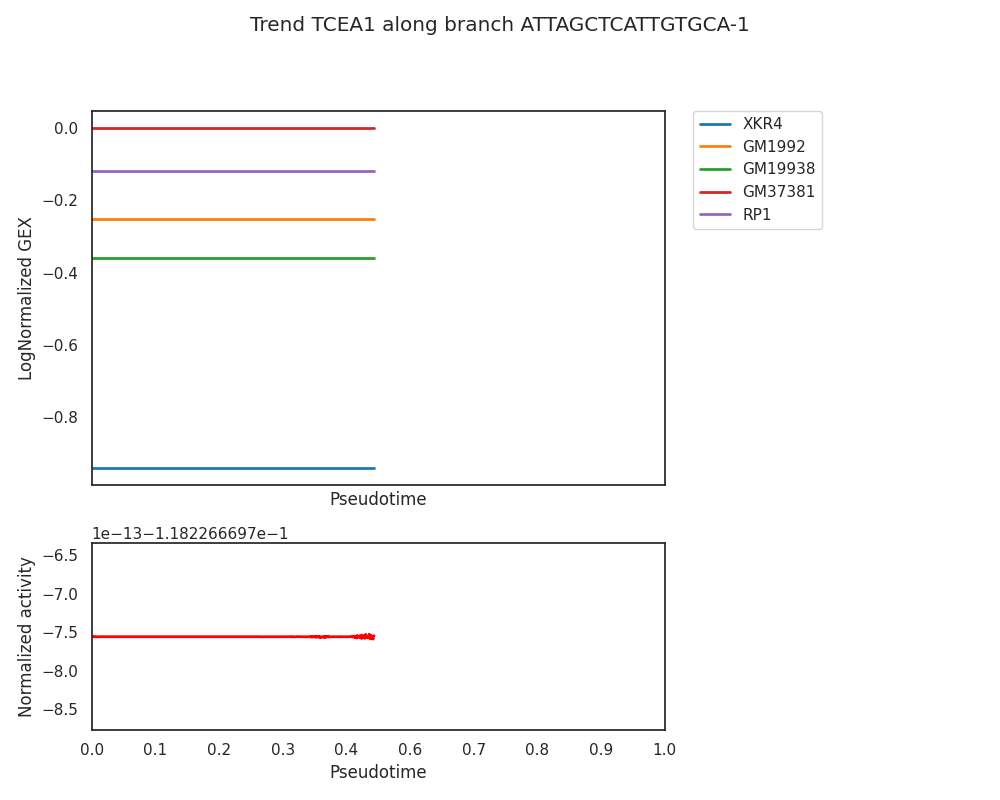
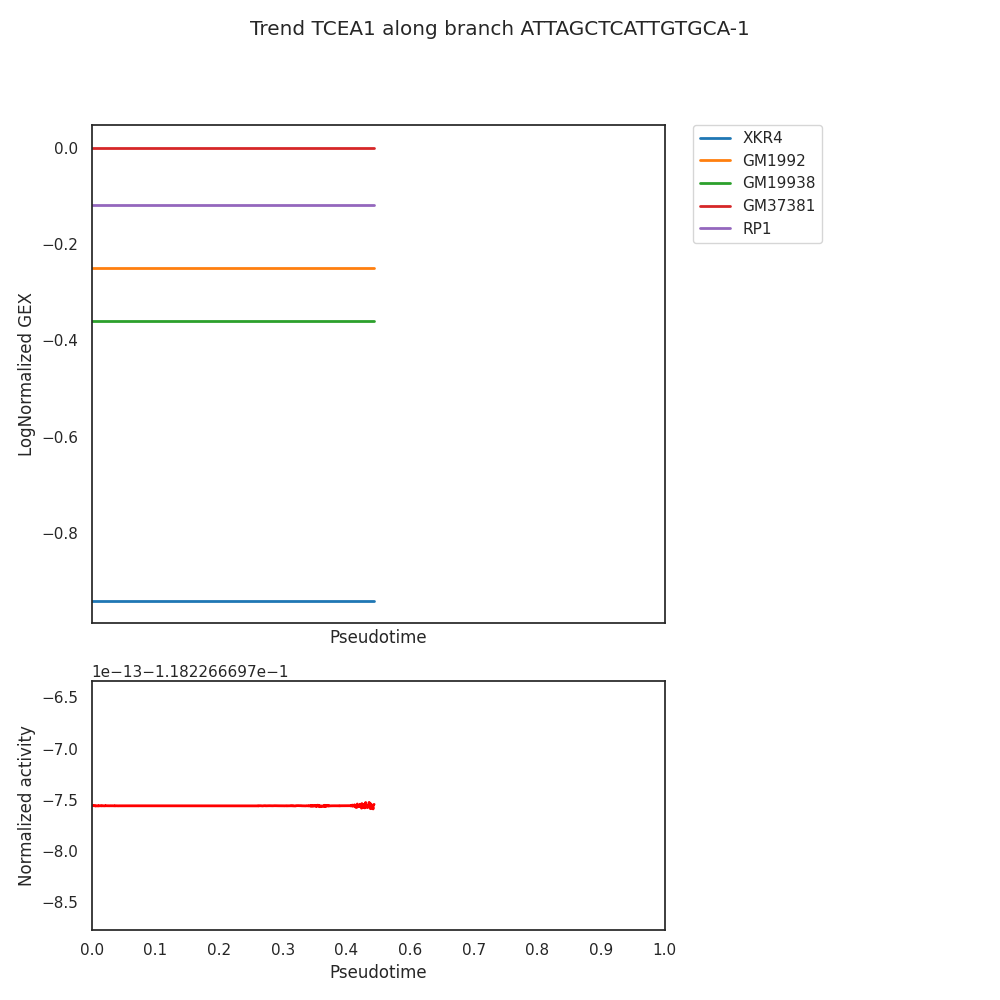
prova 2

diff --git a/src/plots.py b/src/plots.py
@@ -285,13 +285,14 @@ def plot_expression(pseudotime:pd.Series, tf_activity: pd.Series, gene_expressio
 		title: Optional[str]=None, frac:float=0.2, linewidth:int=2, saving_path:Optional[str]=None):
 
 	colors = itertools.cycle(plt.cm.tab10.colors)
-	fig, (ax_top, ax_bottom) = plt.subplots(2,1, figsize=(10,8), sharex=True, gridspec_kw={'height_ratios':[2,1]})
+	fig, (ax_top, ax_bottom) = plt.subplots(2,1, figsize=(10,10), sharex=True, gridspec_kw={'height_ratios':[2,1]})
 	if title is not None:
 		fig.suptitle(title)
  
 	for gene, color in zip(gene_expression.columns, colors):
 		smoothed = lowess(gene_expression[gene], pseudotime, frac=frac)
 		ax_top.plot(smoothed[:,0], smoothed[:,1], color=color, linewidth = linewidth, label = f"{gene}")
+
 	ax_top.set_ylabel("LogNormalized GEX")
 	ax_top.set_xlabel("Pseudotime")
 	ax_top.set_xlim(0,1)
